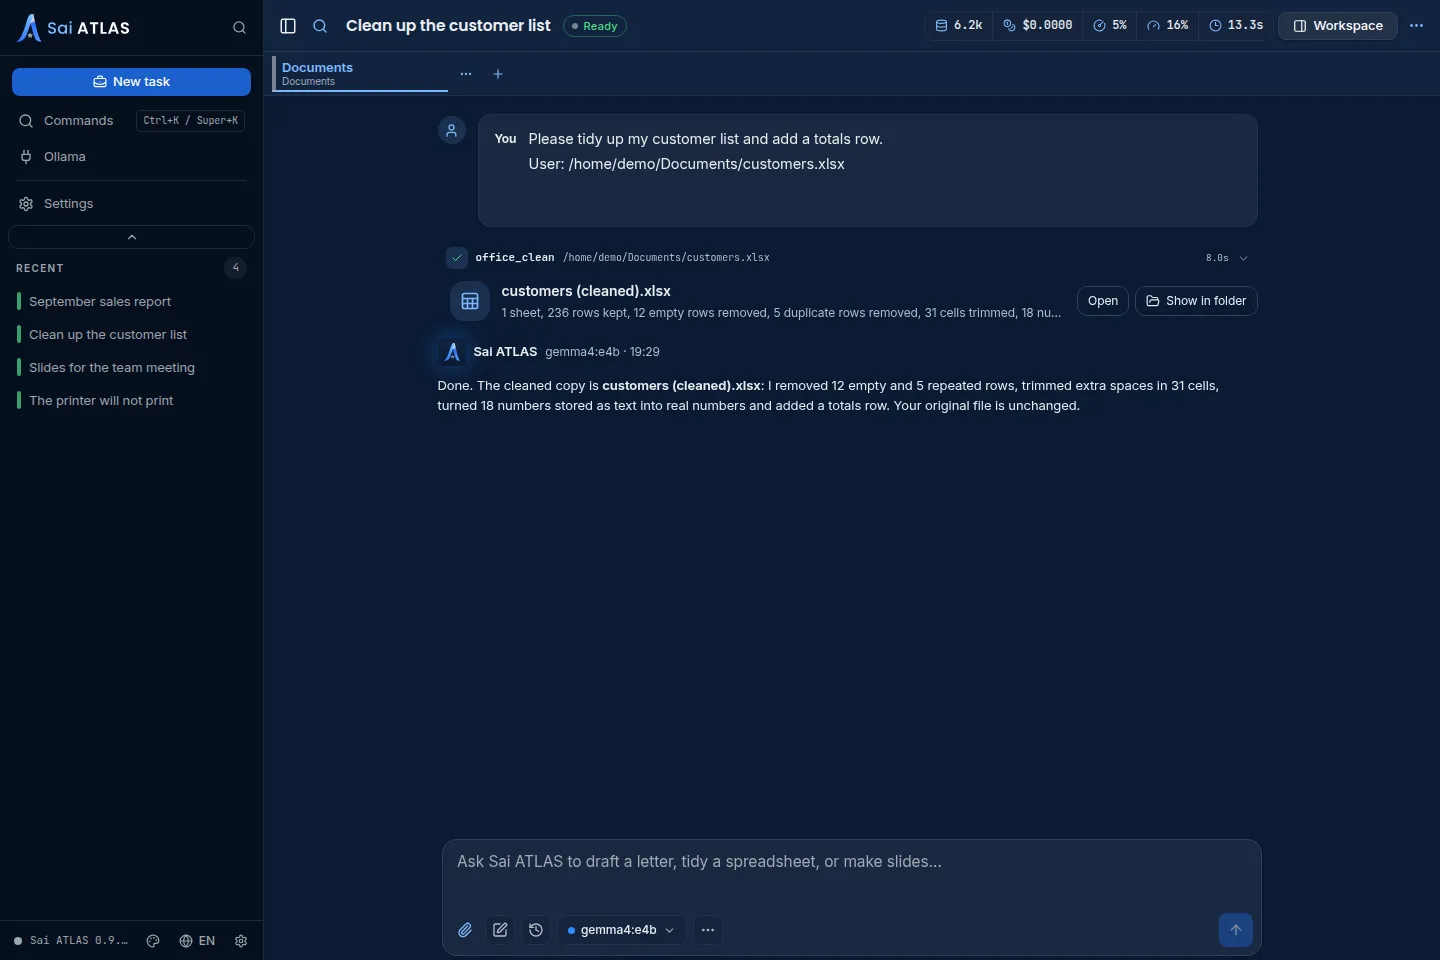
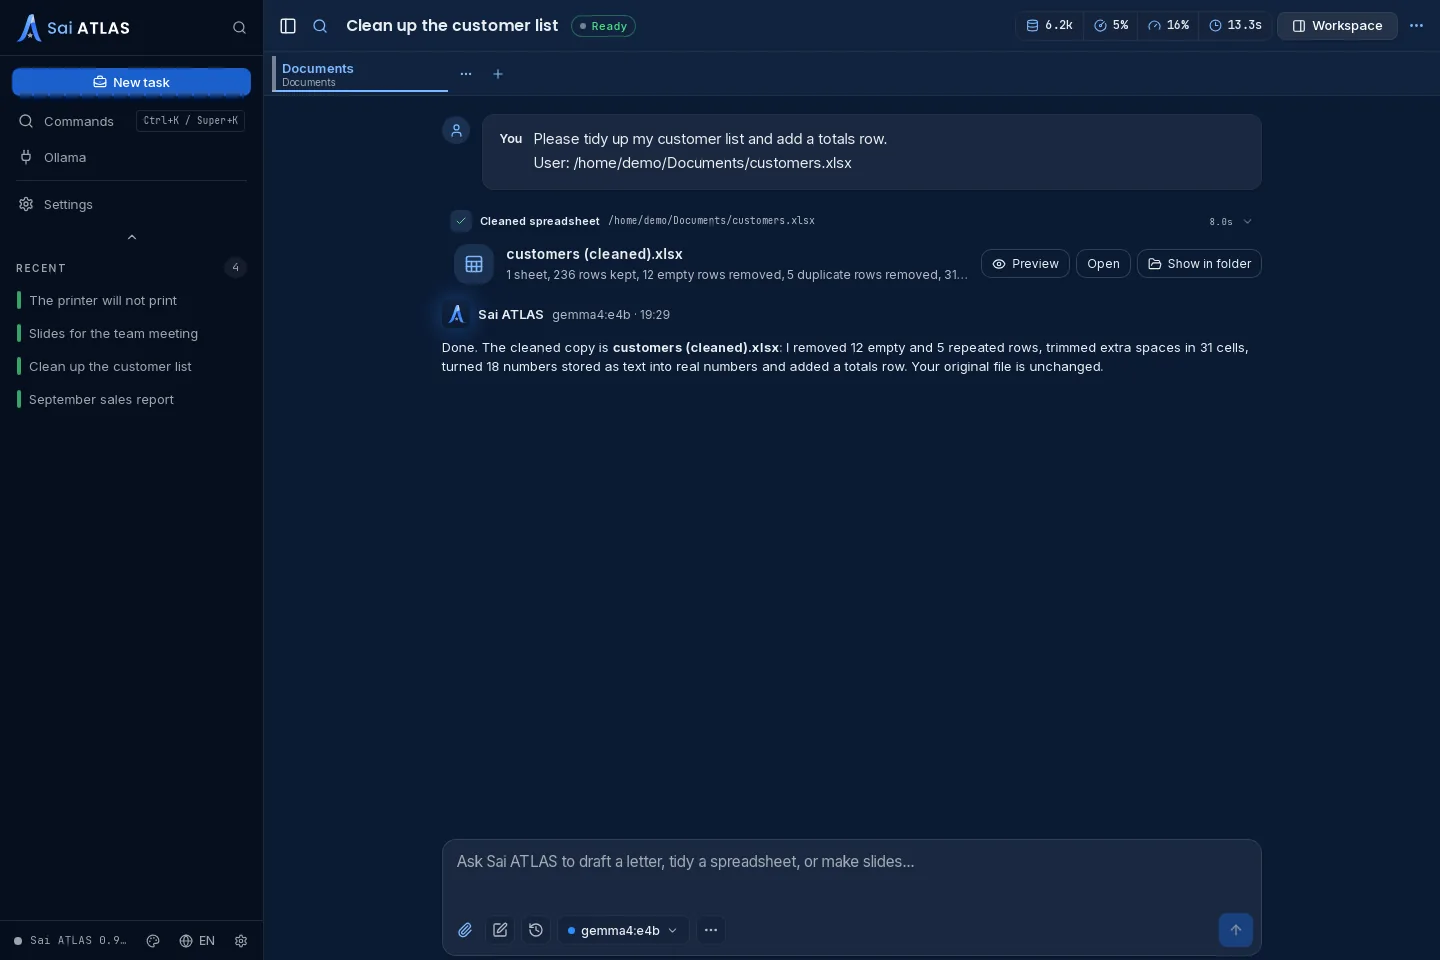
feat(site): add discovery surfaces and fix contrast, no-JS and phone layout
Add robots.txt, sitemap.xml, canonical, Open Graph and X tags with a social
card, JSON-LD, llms.txt, a Markdown twin and a favicon. Raise faint text to
4.5:1, show reveal sections without JavaScript, fix the hero badge and
headline on phones, enlarge phone footer targets, point links at
tung491/sai-atlas and refresh the product screenshots.

diff --git a/site/index.html b/site/index.html
@@ -5,6 +5,53 @@
 <meta name="viewport" content="width=device-width, initial-scale=1.0" />
 <title>Sai ATLAS — Private, local AI for your everyday work</title>
 <meta name="description" content="Sai ATLAS, the private AI assistant for everyday work on SAI OS: Word reports, spreadsheet clean-ups, slides and help with your computer, running locally through Ollama. Linux x64." />
+<script>document.documentElement.classList.add("js");</script>
+<link rel="canonical" href="https://tung491.github.io/sai-atlas/" />
+<link rel="alternate" type="text/markdown" href="https://tung491.github.io/sai-atlas/index.md" />
+<link rel="icon" type="image/svg+xml" href="assets/favicon.svg" />
+<meta property="og:type" content="website" />
+<meta property="og:site_name" content="Sai ATLAS" />
+<meta property="og:title" content="Sai ATLAS — Private, local AI for your everyday work" />
+<meta property="og:description" content="Sai ATLAS, the private AI assistant for everyday work on SAI OS: Word reports, spreadsheet clean-ups, slides and help with your computer, running locally through Ollama. Linux x64." />
+<meta property="og:url" content="https://tung491.github.io/sai-atlas/" />
+<meta property="og:image" content="https://tung491.github.io/sai-atlas/assets/og-card.png" />
+<meta property="og:image:type" content="image/png" />
+<meta property="og:image:width" content="1200" />
+<meta property="og:image:height" content="630" />
+<meta property="og:image:alt" content="Sai ATLAS logo with the headline: Private, local AI for your everyday work." />
+<meta name="twitter:card" content="summary_large_image" />
+<script type="application/ld+json">
+{
+  "@context": "https://schema.org",
+  "@graph": [
+    {
+      "@type": "WebSite",
+      "@id": "https://tung491.github.io/sai-atlas/#website",
+      "url": "https://tung491.github.io/sai-atlas/",
+      "name": "Sai ATLAS",
+      "description": "Sai ATLAS, the private AI assistant for everyday work on SAI OS.",
+      "inLanguage": "en"
+    },
+    {
+      "@type": "SoftwareApplication",
+      "@id": "https://tung491.github.io/sai-atlas/#app",
+      "name": "Sai ATLAS",
+      "description": "The private AI assistant for everyday work on SAI OS: Word reports, spreadsheet clean-ups, slides and help with your computer, running locally through Ollama.",
+      "url": "https://tung491.github.io/sai-atlas/",
+      "applicationCategory": "ProductivityApplication",
+      "operatingSystem": "Linux",
+      "processorRequirements": "x64",
+      "inLanguage": ["en", "vi"],
+      "image": "https://tung491.github.io/sai-atlas/assets/og-card.png",
+      "screenshot": "https://tung491.github.io/sai-atlas/assets/01-word-report.webp",
+      "downloadUrl": "https://github.com/tung491/sai-atlas/releases/latest",
+      "license": "https://opensource.org/licenses/MIT",
+      "isPartOf": { "@id": "https://tung491.github.io/sai-atlas/#website" },
+      "offers": { "@type": "Offer", "price": "0", "priceCurrency": "USD" }
+    }
+  ]
+}
+</script>
 <link rel="preconnect" href="https://fonts.googleapis.com" />
 <link rel="preconnect" href="https://fonts.gstatic.com" crossorigin />
 <link href="https://fonts.googleapis.com/css2?family=Inter:wght@400;500;600;700;800&family=JetBrains+Mono:wght@400;500&display=swap" rel="stylesheet" />
@@ -16,7 +63,7 @@
     --line-strong: rgba(255, 255, 255, 0.12);
     --text: #ecf3f1;
     --muted: #96a8a3;
-    --faint: #5f706b;
+    --faint: #74857f;
     --accent: #34d3be;
     --accent-soft: rgba(52, 211, 190, 0.12);
     --radius: 22px;
@@ -125,6 +172,7 @@
     margin: 34px auto 0; max-width: 900px;
     font-size: clamp(46px, 6.6vw, 84px);
     font-weight: 800; letter-spacing: -0.045em; line-height: 1.04;
+    text-wrap: balance;
   }
   .hero h1 .grad {
     background: linear-gradient(92deg, #eafffa 0%, var(--accent) 55%, #5ea4ff 115%);
@@ -160,7 +208,7 @@
   .hero-shot img { border-radius: var(--radius); box-shadow: 0 60px 140px rgba(0, 0, 0, 0.65); }
 
   /* entrance */
-  .rise { opacity: 0; animation: rise 1s var(--ease) forwards; }
+  .rise { opacity: 0; animation: rise 0.6s var(--ease) forwards; }
   @keyframes rise { from { opacity: 0; transform: translateY(30px); } to { opacity: 1; transform: none; } }
   .d1 { animation-delay: 0.08s; } .d2 { animation-delay: 0.18s; } .d3 { animation-delay: 0.3s; }
   .d4 { animation-delay: 0.42s; } .d5 { animation-delay: 0.56s; }
@@ -322,12 +370,15 @@
   .foot-links { display: flex; gap: 56px; flex-wrap: wrap; }
   .foot-col strong { display: block; font-size: 13px; font-weight: 600; margin-bottom: 14px; color: var(--text); }
   .foot-col a { display: block; color: var(--muted); font-size: 13.5px; padding: 4px 0; transition: color 0.2s; }
+  /* Phones: footer links get a 44px row so they are easy to tap. */
+  @media (max-width: 600px) { .foot-col a { padding: 12px 0; } }
   .foot-col a:hover { color: var(--accent); }
   .foot-base { margin-top: 48px; color: var(--faint); font-size: 13px; display: flex; justify-content: space-between; gap: 20px; flex-wrap: wrap; }
 
   /* ---------- reveal on scroll ---------- */
-  .reveal { opacity: 0; transform: translateY(28px); transition: opacity 0.9s var(--ease), transform 0.9s var(--ease); }
-  .reveal.visible { opacity: 1; transform: none; }
+  /* Hidden only once the head script has marked JS as running, so the page stays readable without it. */
+  .js .reveal { opacity: 0; transform: translateY(28px); transition: opacity 0.9s var(--ease), transform 0.9s var(--ease); }
+  .js .reveal.visible { opacity: 1; transform: none; }
   .reveal-late { transition-delay: 0.12s; }
   .reveal-later { transition-delay: 0.24s; }
 
@@ -342,6 +393,12 @@
     .duo .shot:nth-child(2) { transform: none; }
     section { padding: 100px 0; }
     .install-panel { padding: 48px 28px; }
+  }
+
+  /* On phones the badge wraps as one centred paragraph instead of one flex column per text node. */
+  @media (max-width: 600px) {
+    .hero-badge { display: inline-block; max-width: 100%; text-align: center; line-height: 1.5; border-radius: 18px; padding: 7px 14px; }
+    .hero-badge .dot { display: inline-block; vertical-align: middle; margin: -2px 7px 0 0; }
   }
 
   @media (prefers-reduced-motion: reduce) {
@@ -371,7 +428,7 @@
       <a href="#computer-help">Computer help</a>
       <a href="#privacy">Privacy</a>
       <a href="#install">Install</a>
-      <a href="https://github.com/tung491/oh-my-pi-gui">GitHub</a>
+      <a href="https://github.com/tung491/sai-atlas">GitHub</a>
     </div>
     <a class="btn btn-primary btn-sm" href="#install">Choose a build <span data-omp-version>v0.9.16</span></a>
   </div>
@@ -380,15 +437,15 @@
 <header class="hero" id="top">
   <div class="container">
     <div class="hero-badge rise d1"><span class="dot"></span><span data-omp-version>v0.9.16</span> · <span data-omp-release-date>Oct 2026</span> — the private AI assistant for everyday work on SAI OS</div>
-    <h1 class="rise d2">Private, local AI<br /><span class="grad">for your everyday work.</span></h1>
+    <h1 class="rise d2">Private, local&nbsp;AI<br /><span class="grad">for your everyday work.</span></h1>
     <p class="sub rise d3">Write a Word report, clean up a spreadsheet, turn a report into slides, or get help when the computer misbehaves. Sai ATLAS runs on your own computer, answers in English or Vietnamese, and asks before it changes anything.</p>
     <div class="hero-cta rise d4">
-      <a class="btn btn-primary" data-omp-linux="deb" href="https://github.com/tung491/oh-my-pi-gui/releases/latest">
+      <a class="btn btn-primary" data-omp-linux="deb" href="https://github.com/tung491/sai-atlas/releases/latest">
         <svg width="16" height="16" viewBox="0 0 24 24" fill="none" stroke="currentColor" stroke-width="2.2" stroke-linecap="round" stroke-linejoin="round"><path d="M21 15v4a2 2 0 0 1-2 2H5a2 2 0 0 1-2-2v-4"/><polyline points="7 10 12 15 17 10"/><line x1="12" y1="15" x2="12" y2="3"/></svg>
         Download for Linux <span class="btn-sub">x64 .deb</span>
       </a>
     </div>
-    <p class="hero-fine rise d5">No account, no sign-in · models run through Ollama on this computer · <a href="https://github.com/tung491/oh-my-pi-gui/releases">All releases</a></p>
+    <p class="hero-fine rise d5">No account, no sign-in · models run through Ollama on this computer · <a href="https://github.com/tung491/sai-atlas/releases">All releases</a></p>
     <div class="hero-shot-wrap rise d5">
       <div class="hero-shot" id="tilt">
         <img src="assets/01-word-report.webp" alt="Sai ATLAS writing a Word report from a short request" loading="eager" />
@@ -519,16 +576,16 @@
       <h2>Up and running in a few minutes</h2>
       <p class="lead" style="margin-left: auto; margin-right: auto;">Install Ollama from ollama.com, then grab the build for your computer. On first launch Sai ATLAS suggests a model that fits your machine and downloads it for you.</p>
       <div class="cta-row">
-        <a class="btn btn-primary" data-omp-linux="deb" href="https://github.com/tung491/oh-my-pi-gui/releases/latest">
+        <a class="btn btn-primary" data-omp-linux="deb" href="https://github.com/tung491/sai-atlas/releases/latest">
           <svg width="16" height="16" viewBox="0 0 24 24" fill="none" stroke="currentColor" stroke-width="2.2" stroke-linecap="round" stroke-linejoin="round"><path d="M21 15v4a2 2 0 0 1-2 2H5a2 2 0 0 1-2-2v-4"/><polyline points="7 10 12 15 17 10"/><line x1="12" y1="15" x2="12" y2="3"/></svg>
           Linux <span class="btn-sub">x64 .deb</span>
         </a>
-        <a class="btn btn-ghost" data-omp-linux="appimage" href="https://github.com/tung491/oh-my-pi-gui/releases/latest">Linux <span class="btn-sub">x64 AppImage</span></a>
-        <a class="btn btn-ghost" href="https://github.com/tung491/oh-my-pi-gui/releases">All releases</a>
+        <a class="btn btn-ghost" data-omp-linux="appimage" href="https://github.com/tung491/sai-atlas/releases/latest">Linux <span class="btn-sub">x64 AppImage</span></a>
+        <a class="btn btn-ghost" href="https://github.com/tung491/sai-atlas/releases">All releases</a>
       </div>
       <div class="install-note">
         <svg width="17" height="17" viewBox="0 0 24 24" fill="none" stroke="currentColor" stroke-width="2"><path d="M10.29 3.86 1.82 18a2 2 0 0 0 1.71 3h16.94a2 2 0 0 0 1.71-3L13.71 3.86a2 2 0 0 0-3.42 0z"/><line x1="12" y1="9" x2="12" y2="13"/><line x1="12" y1="17" x2="12.01" y2="17"/></svg>
-        <span>On Ubuntu 24.04 or later, install the .deb with <code>sudo apt install ./sai-atlas_&lt;version&gt;_amd64.deb</code>; the AppImage needs <code>libwebkit2gtk-4.1-0</code>. Building from source is described in the <a href="https://github.com/tung491/oh-my-pi-gui#readme">README</a>.</span>
+        <span>On Ubuntu 24.04 or later, install the .deb with <code>sudo apt install ./sai-atlas_&lt;version&gt;_amd64.deb</code>; the AppImage needs <code>libwebkit2gtk-4.1-0</code>. Building from source is described in the <a href="https://github.com/tung491/sai-atlas#readme">README</a>.</span>
       </div>
     </div>
   </div>
@@ -546,13 +603,13 @@
       <div class="foot-links">
         <div class="foot-col">
           <strong>Product</strong>
-          <a href="https://github.com/tung491/oh-my-pi-gui/releases">Releases</a>
-          <a href="https://github.com/tung491/oh-my-pi-gui#readme">README</a>
+          <a href="https://github.com/tung491/sai-atlas/releases">Releases</a>
+          <a href="https://github.com/tung491/sai-atlas#readme">README</a>
           <a href="#install">Install</a>
         </div>
         <div class="foot-col">
           <strong>Code</strong>
-          <a href="https://github.com/tung491/oh-my-pi-gui">GUI repo</a>
+          <a href="https://github.com/tung491/sai-atlas">GUI repo</a>
           <a href="https://github.com/nornzach/oh-my-pi">Monorepo fork</a>
           <a href="https://github.com/can1357/oh-my-pi">Upstream omp</a>
         </div>
@@ -623,7 +680,7 @@
   // release as the no-JS / rate-limited fallback; any failure simply leaves it in place.
   const assetUrlEndingWith = (assets, suffix) => assets.find((asset) => asset.name.endsWith(suffix))?.browser_download_url;
 
-  fetch("https://api.github.com/repos/tung491/oh-my-pi-gui/releases/latest", {
+  fetch("https://api.github.com/repos/tung491/sai-atlas/releases/latest", {
     headers: { accept: "application/vnd.github+json" },
   })
     .then((response) => (response.ok ? response.json() : Promise.reject(new Error(`HTTP ${response.status}`))))

diff --git a/site/index.md b/site/index.md
@@ -1,0 +1,68 @@
+# Sai ATLAS — Private, local AI for your everyday work
+
+Canonical: https://tung491.github.io/sai-atlas/
+Last updated: 2026-10-10
+
+The private AI assistant for everyday work on SAI OS.
+
+## Private, local AI for your everyday work.
+
+Write a Word report, clean up a spreadsheet, turn a report into slides, or get help when the computer misbehaves. Sai ATLAS runs on your own computer, answers in English or Vietnamese, and asks before it changes anything.
+
+- [Download for Linux (x64 .deb)](https://github.com/tung491/sai-atlas/releases/latest)
+- No account, no sign-in · models run through Ollama on this computer · [All releases](https://github.com/tung491/sai-atlas/releases)
+
+## Word: A finished report from a few lines
+
+Describe the report you need or paste your notes. Sai ATLAS writes it as a Word document with headings, lists and tables, ready to open and edit.
+
+- **Your words, organised.** Rough notes become a clear report with a title, sections and a summary.
+- **A real .docx file.** Saved in Documents > Sai ATLAS and opened from the card in the conversation.
+
+## Excel: A messy spreadsheet, cleaned up
+
+Attach an Excel, LibreOffice or CSV spreadsheet. Sai ATLAS makes a tidy copy and tells you what it fixed. Your original file is never changed.
+
+- **The usual mess, fixed.** Extra spaces, empty and repeated rows, and numbers stored as text.
+- **Totals when you want them.** Ask for a totals row and it is added under each sheet.
+
+## PowerPoint: Slides from your report
+
+Give Sai ATLAS a report or an outline and it builds a PowerPoint deck: one idea per slide, with short points you can present.
+
+- **From report to deck.** Turn the report it just wrote, or one of your own, into slides.
+- **A real .pptx file.** Open it in PowerPoint or LibreOffice Impress and adjust it as you like.
+
+## Computer help on SAI OS: Help when the computer misbehaves
+
+Wi-Fi gone, no sound, the printer will not print, the screen looks wrong, Vietnamese typing stopped working? Tell Sai ATLAS what happened in your own words.
+
+1. **It checks first.** Sai ATLAS looks at the network, sound, printers, the screen, Bluetooth, storage, typing or updates before it suggests anything.
+2. **It explains plainly.** You get what it found in one or two sentences, without jargon.
+3. **You approve each fix.** It offers one fix at a time and changes nothing until you say yes. When a fix needs more, it writes a short note for whoever helps you next.
+
+## Privacy: Your work stays with you
+
+Your files and conversations stay on this computer. Sai ATLAS goes online only to download models and updates.
+
+1. **A model on your computer.** The AI runs through Ollama on this computer. Sai ATLAS does not use cloud models or an Ollama on another machine.
+2. **No account.** There is nothing to sign up for and nothing to sign in to.
+3. **Your files stay yours.** New files go to Documents > Sai ATLAS. It never edits or deletes your own files.
+
+## Install: Up and running in a few minutes
+
+Install Ollama from ollama.com, then grab the build for your computer. On first launch Sai ATLAS suggests a model that fits your machine and downloads it for you.
+
+- [Linux x64 .deb](https://github.com/tung491/sai-atlas/releases/latest)
+- [Linux x64 AppImage](https://github.com/tung491/sai-atlas/releases/latest)
+- [All releases](https://github.com/tung491/sai-atlas/releases)
+
+On Ubuntu 24.04 or later, install the .deb with `sudo apt install ./sai-atlas_<version>_amd64.deb`; the AppImage needs `libwebkit2gtk-4.1-0`. Building from source is described in the [README](https://github.com/tung491/sai-atlas#readme).
+
+## About
+
+Sai ATLAS, the private AI assistant for everyday work on SAI OS. It runs on your computer, built on the open-source omp agent.
+
+- Code: [GUI repo](https://github.com/tung491/sai-atlas) · [Monorepo fork](https://github.com/nornzach/oh-my-pi) · [Upstream omp](https://github.com/can1357/oh-my-pi)
+- © 2026 Sai ATLAS contributors · MIT
+- Not affiliated with Anthropic, OpenAI, or any model provider.
